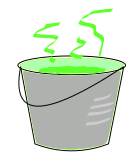
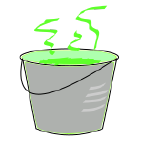
added 2 tests, mouseover, new resized images

Changed region(s): [[0.1143, 0.0282, 0.9143, 0.9577], [0.5714, 0.7606, 0.6286, 0.7887]]

diff --git a/client/components/game/Corridor.jsx b/client/components/game/Corridor.jsx
@@ -46,8 +46,8 @@ class Corridor extends React.Component {
       src={sign.img}
       style={sign.roomStyle}
       onClick={() => sign.mouseClick(this.props.authorised)}
-      onMouseOver={() => sign.mouseOver()}
-      onMouseOut={() => sign.mouseOff()}/>
+      onMouseOver={sign.mouseOver}
+      onMouseOff={sign.mouseOff}/>
     )
   }
 
@@ -56,8 +56,8 @@ class Corridor extends React.Component {
       src={sign.img}
       style={sign.roomStyle}
       onClick={() => sign.mouseClick(this.props.authorised)}
-      onMouseOver={() => sign.mouseOver()}
-      onMouseOut={() => sign.mouseOff()}/>
+      onMouseOver={sign.mouseOver}
+      onMouseOff={sign.mouseOff}/>
     )
   }
 
@@ -66,10 +66,9 @@ class Corridor extends React.Component {
     return (<img
       src={bot.img}
       style={this.props.authorised ? bot.idleStyle : bot.activeStyle}
-      onClick={() =>
-      bot.mouseClick(this.props.activeItem)}
-      onMouseOver={() => bot.mouseOver()}
-      onMouseOut={() => bot.mouseOff()}/>
+      onClick={() => bot.mouseClick(this.props.activeItem)}
+      onMouseOver={bot.mouseOver}
+      onMouseOff={bot.mouseOff}/>
     )
   }
 
@@ -80,11 +79,11 @@ class Corridor extends React.Component {
         style={this.props.authorised ?
         mo.idleStyle : mo.activeStyle}
         onClick={() => mo.mouseClick()}
-        onMouseOver={() => mo.mouseOver()}
-        onMouseOut={() => mo.mouseOff()}
-      />)
+        onMouseOver={mo.mouseOver}
+        onMouseOff={mo.mouseOff}/>
+      )
     }
-  }
+ }
 
 
   renderCorridorCell1(cell) {
@@ -92,8 +91,8 @@ class Corridor extends React.Component {
       src={cell.img}
       style={cell.roomStyle}
       onClick={() => cell.mouseClick('click')}
-      onMouseOver={() => cell.mouseOver()}
-      onMouseOut={() => cell.mouseOff()}/>
+      onMouseOver={cell.mouseOver}
+      onMouseOff={cell.mouseOff}/>
     )
   }
 
@@ -103,8 +102,8 @@ class Corridor extends React.Component {
         src={cell.img}
         style={cell.roomStyle}
         onClick={() => cell.mouseClick(this.props.activeItem)}
-        onMouseOver={() => cell.mouseOver()}
-        onMouseOut={() => cell.mouseOff()}/>
+        onMouseOver={cell.mouseOver}
+        onMouseOff={cell.mouseOff}/>
       )
     }
   }

diff --git a/client/components/game/Staffroom.jsx b/client/components/game/Staffroom.jsx
@@ -39,8 +39,8 @@ renderLocker1(locker1){
       style={locker1.roomStyle}
       className={locker1.class}
       onClick={() => locker1.mouseClick('click')}
-      onMouseOver={() => locker1.mouseOver()}
-      onMouseOut={() => locker1.mouseOff()}/>
+      onMouseOver={locker1.mouseOver}
+      onMouseOut={locker1.mouseOff}/>
       )
   }
 }
@@ -52,8 +52,8 @@ renderLocker2(locker2){
       style={locker2.roomStyle}
       className={locker2.class}
       onClick={() => locker2.mouseClick('click')}
-      onMouseOver={() => locker2.mouseOver()}
-      onMouseOut={() => locker2.mouseOff()}/>
+      onMouseOver={locker2.mouseOver}
+      onMouseOut={locker2.mouseOff}/>
       )
   }
 }
@@ -65,8 +65,8 @@ renderLocker3(locker){
       style={locker.roomStyle}
       className={locker.class}
       onClick={() => locker.mouseClick('click')}
-      onMouseOver={() => locker.mouseOver()}
-      onMouseOut={() => locker.mouseOff()}/>
+      onMouseOver={locker.mouseOver}
+      onMouseOut={locker.mouseOff}/>
       )
   }
 }
@@ -78,8 +78,8 @@ renderLocker3(locker){
       style={log.roomStyle}
       className={log.class}
       onClick={() => log.mouseClick(this.props.activeItem)}
-      onMouseOver={() => log.mouseOver()}
-      onMouseOut={() => log.mouseOff()}/>
+      onMouseOver={log.mouseOver}
+      onMouseOut={log.mouseOff}/>
       )
     }
   }

diff --git a/client/components/game/Reactcore.jsx b/client/components/game/Reactcore.jsx
@@ -32,8 +32,8 @@ class ReactCore extends React.Component {
     return (<img
       src={button.img} style={button.roomStyle}
       onClick={() => button.mouseClick(this.state.branch)}
-      onMouseOver={() => button.mouseOver()}
-      onMouseOut={() => button.mouseOff()}/>
+      onMouseOver={button.mouseOver}
+      onMouseOut={button.mouseOff}/>
     )
   }
 
@@ -41,8 +41,8 @@ class ReactCore extends React.Component {
     return (<img
       src={screen.img} style={screen.roomStyle}
       onClick={() => screen.mouseClick('click')}
-      onMouseOver={() => screen.mouseOver()}
-      onMouseOut={() => screen.mouseOff()}/>
+      onMouseOver={screen.mouseOver}
+      onMouseOut={screen.mouseOff}/>
     )
   }
 
@@ -51,8 +51,8 @@ class ReactCore extends React.Component {
     return (<img
       src={redoor.img} style={redoor.roomStyle}
       onClick={() => redoor.mouseClick('click')}
-      onMouseOver={() => redoor.mouseOver()}
-      onMouseOut={() => redoor.mouseOff()}/>
+      onMouseOver={redoor.mouseOver}
+      onMouseOut={redoor.mouseOff}/>
     )
   }
 

diff --git a/test/client/index.test.js b/test/client/index.test.js
@@ -64,11 +64,20 @@ test('Corridor background image rendering', t => {
 //Staffroom Tests
 test('Staffroom background image rendering', t => {
   const wrapper = mount(<Provider store={store}><Staffroom /></Provider>)
-  t.is(wrapper.find().exists(), true)
-  t.is(wrapper.find('img[src="locker1.img"]').exists(), true)
-  t.is(wrapper.find('img[src="locker2.img"]').exists(), true)
+  t.is(wrapper.find('.window').contains(<img
+  className='background-img' src='images/backgrounds/Staffroom.png'/>), true)
+})
+
+test('Staffroom items rendering', t => {
+  const wrapper = mount(<Provider store={store}><Staffroom /></Provider>)
+  t.is(wrapper.find('.window img[src="images/items/Book.png"]').exists(), true)
+  t.is(wrapper.find('.window img[src="images/items/Locker1.png"]').exists(), true)
+  t.is(wrapper.find('.window img[src="images/items/Locker2.png"]').exists(), true)
+  t.is(wrapper.find('.window img[src="images/items/Locker3.png"]').exists(), true)
+
 
 })
+
 
 //Reactcore Tests
 test('Reactcore background image rendering', t => {

diff --git a/client/components/game/items/Crowbar.js b/client/components/game/items/Crowbar.js
@@ -3,15 +3,15 @@ import InventoryItem from './InventoryItem'
 export default class Crowbar extends InventoryItem {
   constructor(dispatch) {
     super(dispatch)
-    this.img = 'images/items/crowbar.png'
+    this.img = 'images/items/Crowbar.png'
     this.name = 'crowbar'
     this.msg = 'This is one cool looking crowbar wonder if I can use it?'
     this.invStyle =  {
-      width: '50px',
-      height: '65px',
+      width: '79px',
+      height: '74px',
       position: 'absolute',
-      top: '36%',
-      left: '63%',
+      top: '34%',
+      left: '53%',
       zIndex: 5
     }
   }

diff --git a/client/components/game/items/Authbot.js b/client/components/game/items/Authbot.js
@@ -31,18 +31,6 @@ export default class Authbot extends Item {
     if (activeItem == 'cookie') {
       this.dispatch(updateLog(this.authmsg))
       this.dispatch(authorised())
-      // console.log("bot has been authorised");
-    } else {
-      this.dispatch(updateLog(this.msg))
-      // console.log("bot is not authorised")
-    }
-  }
-
-  mouseOver(){
-    //make glow
-  }
-
-  mouseOff(){
-    //make not glow
+    } else {this.dispatch(updateLog(this.msg))}
   }
 }

diff --git a/client/components/game/items/Cookie.js b/client/components/game/items/Cookie.js
@@ -8,11 +8,11 @@ export default class Cookie extends InventoryItem {
     this.name = 'cookie'
     this.msg = 'This cookie looks tasty...I wonder if the authbot might like it?'
     this.invStyle =  {
-      width: '65px',
-      height: '21px',
+      width: '85px',
+      height: '65px',
       position: 'absolute',
-      top: '22%',
-      left: '60%',
+      top: '18%',
+      left: '51%',
       zIndex: 5
     }
   }

diff --git a/client/components/game/code/Authbot.js b/client/components/game/code/Authbot.js
@@ -36,17 +36,6 @@ export default class Authbot extends CodeGiver {
       this.dispatch(sendToFunc(this.code))
       this.dispatch(updateLog(this.authmsg))
       this.dispatch(authorised())
-    } else {
-      this.dispatch(updateLog(this.msg))
-
-    }
-  }
-
-  mouseOver(){
-    //make glow
-  }
-
-  mouseOff(){
-    //make not glow
+    } else {this.dispatch(updateLog(this.msg))}
   }
 }

diff --git a/client/components/game/items/Password.js b/client/components/game/items/Password.js
@@ -10,11 +10,11 @@ export default class Password extends InventoryItem {
     this.name = 'corridorCell2'
     this.exit = ''
     this.invStyle = {
-      width: '51px',
-      height: '29px',
+      width: '80px',
+      height: '66px',
       position: 'absolute',
-      top: '21%',
-      left: '10%',
+      top: '18%',
+      left: '3%',
       zIndex: 5
     }
   }

diff --git a/client/components/game/Cell.jsx b/client/components/game/Cell.jsx
@@ -59,8 +59,8 @@ class Cell extends React.Component {
       src={door.img}
       style={door.roomStyle}
       onClick={() => door.mouseClick(this.props.activeItem, this.props.cellLocked)}
-      onMouseOver={() => door.mouseOver()}
-      onMouseOut={() => door.mouseOff()}/>
+      onMouseOver= {door.mouseOver}
+      onMouseOut= {door.mouseOff}/>
     )
   }
 

diff --git a/client/components/game/items/Photo.js b/client/components/game/items/Photo.js
@@ -7,11 +7,11 @@ export default class Photo extends InventoryItem {
     this.msg = "This is bob's family Photo"
     this.name = 'Photo'
     this.invStyle = {
-      width: '82px',
-      height: '81px',
+      width: '78px',
+      height: '75px',
       position: 'absolute',
       top: '34%',
-      left: '4%',
+      left: '3%',
       zIndex: 5
     }
   }

diff --git a/client/components/game/items/Bucket.js b/client/components/game/items/Bucket.js
@@ -19,11 +19,11 @@ export default class Bucket extends InventoryItem {
       zIndex: 5
     }
     this.invStyle =  {
-      width: '68px',
-      height: '80px',
+      width: '78px',
+      height: '72px',
       position: 'absolute',
-      top: '0%',
-      left: '56%',
+      top: '0.5%',
+      left: '53%',
       zIndex: 5
     }
   }
